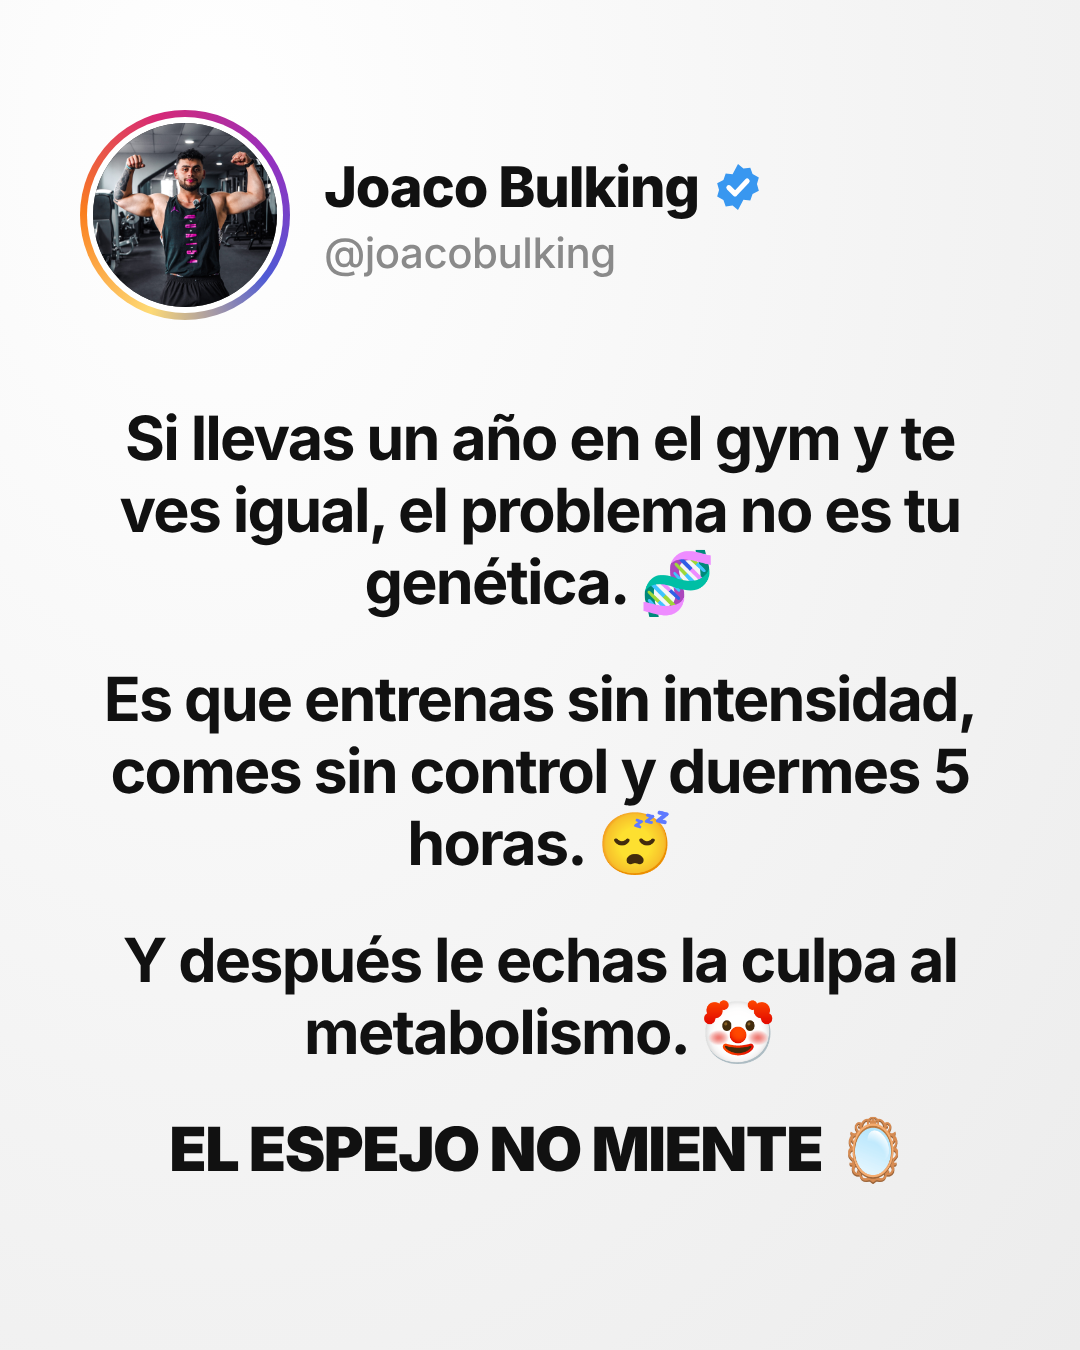
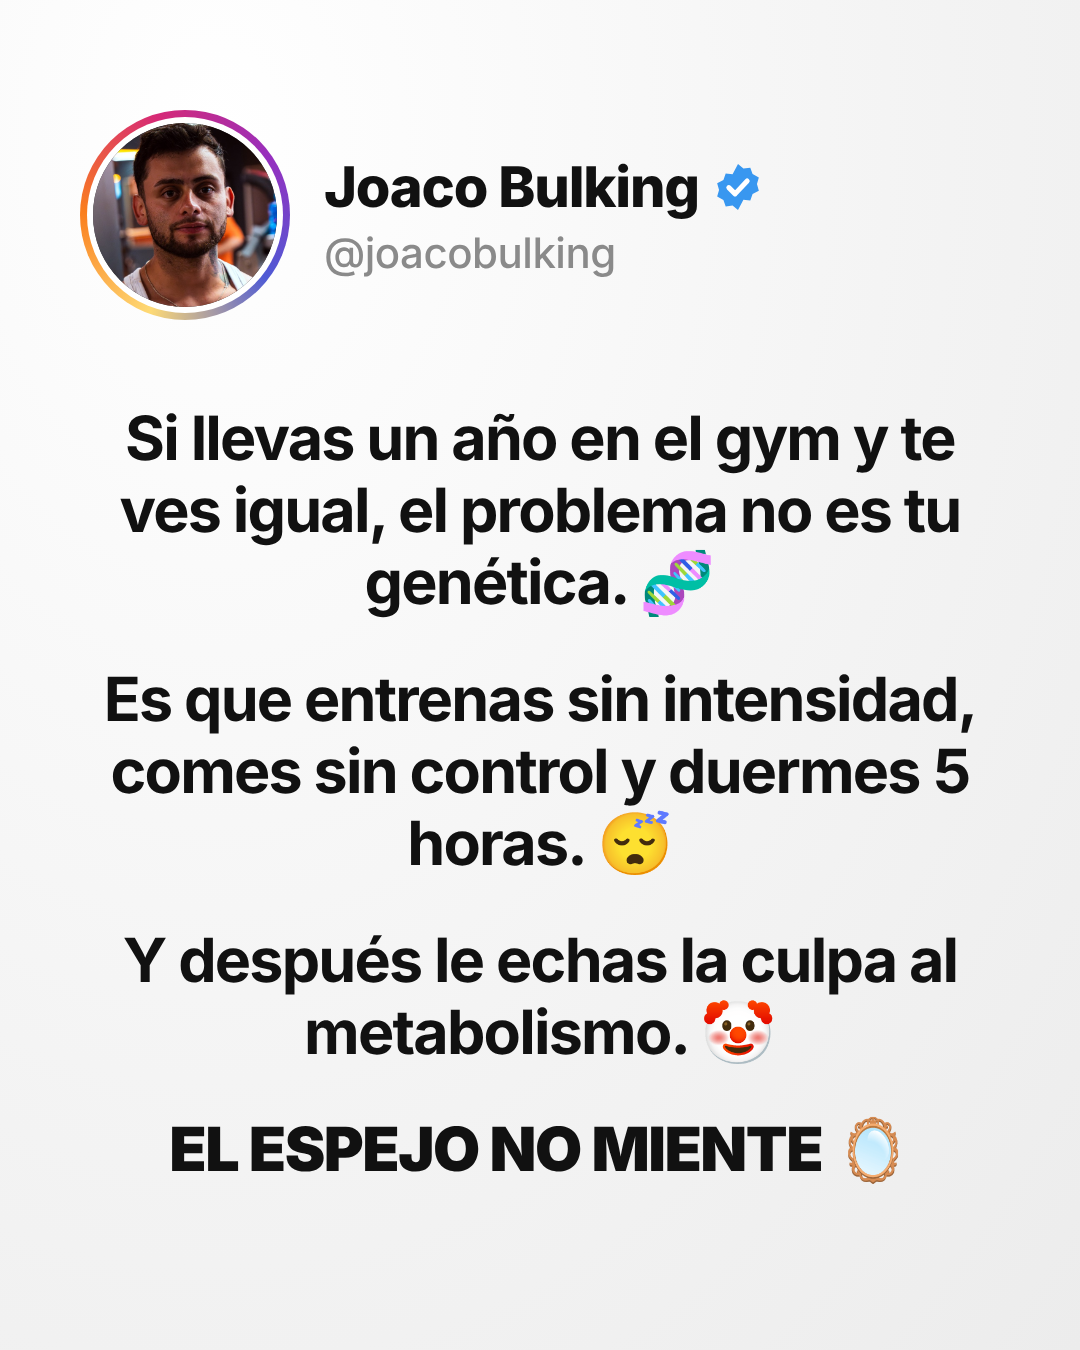
Actualizar foto de perfil en todos los posts
Claude-Session: https://claude.ai/code/session_01CoBw7UrmLzFv47HBfQE2u3

Changed region(s): [[0.0611, 0.0933, 0.275, 0.2489]]

diff --git a/post/post.html b/post/post.html
@@ -10,7 +10,7 @@
     background: conic-gradient(from 200deg, #feda75, #fa7e1e, #d62976, #962fbf, #4f5bd5, #feda75); }
   .ring-inner { width:100%; height:100%; border-radius:50%; background:#fff; padding:6px; }
   .avatar { width:100%; height:100%; border-radius:50%; overflow:hidden; position:relative; background:#333; }
-  .avatar img { position:absolute; width:100%; left:0; top:-40px; }
+  .avatar img { position:absolute; width:100%; left:0; top:0; }
   .name { font-size:56px; font-weight:800; letter-spacing:-1.2px; display:flex; align-items:center; gap:14px; }
   .badge { width:50px; height:50px; }
   .handle { font-size:42px; color:#8a8a8a; font-weight:500; margin-top:6px; letter-spacing:-0.5px; }

diff --git a/post/post_genetica.html b/post/post_genetica.html
@@ -10,7 +10,7 @@
     background: conic-gradient(from 200deg, #feda75, #fa7e1e, #d62976, #962fbf, #4f5bd5, #feda75); }
   .ring-inner { width:100%; height:100%; border-radius:50%; background:#fff; padding:6px; }
   .avatar { width:100%; height:100%; border-radius:50%; overflow:hidden; position:relative; background:#333; }
-  .avatar img { position:absolute; width:100%; left:0; top:-40px; }
+  .avatar img { position:absolute; width:100%; left:0; top:0; }
   .name { font-size:56px; font-weight:800; letter-spacing:-1.2px; display:flex; align-items:center; gap:14px; }
   .badge { width:50px; height:50px; }
   .handle { font-size:42px; color:#8a8a8a; font-weight:500; margin-top:6px; letter-spacing:-0.5px; }

diff --git a/post/post_cortisol.html b/post/post_cortisol.html
@@ -7,7 +7,7 @@
   .card { width:900px; margin-top:-60px; }
   .head { display:flex; align-items:center; gap:26px; margin-left:16px; }
   .avatar { width:150px; height:150px; border-radius:50%; overflow:hidden; position:relative; background:#333; border:2px solid #eee; }
-  .avatar img { position:absolute; width:100%; left:0; top:-32px; }
+  .avatar img { position:absolute; width:100%; left:0; top:0; }
   .name { font-size:42px; font-weight:800; letter-spacing:-0.8px; display:flex; align-items:center; gap:10px; }
   .badge { width:38px; height:38px; }
   .handle { font-size:38px; color:#222; font-weight:400; margin-top:2px; letter-spacing:-0.3px; }

diff --git a/post/post_tweet.html b/post/post_tweet.html
@@ -7,7 +7,7 @@
   .card { width:900px; margin-top:-60px; }
   .head { display:flex; align-items:center; gap:26px; margin-left:16px; }
   .avatar { width:150px; height:150px; border-radius:50%; overflow:hidden; position:relative; background:#333; border:2px solid #eee; }
-  .avatar img { position:absolute; width:100%; left:0; top:-32px; }
+  .avatar img { position:absolute; width:100%; left:0; top:0; }
   .name { font-size:42px; font-weight:800; letter-spacing:-0.8px; display:flex; align-items:center; gap:10px; }
   .badge { width:38px; height:38px; }
   .handle { font-size:38px; color:#222; font-weight:400; margin-top:2px; letter-spacing:-0.3px; }
